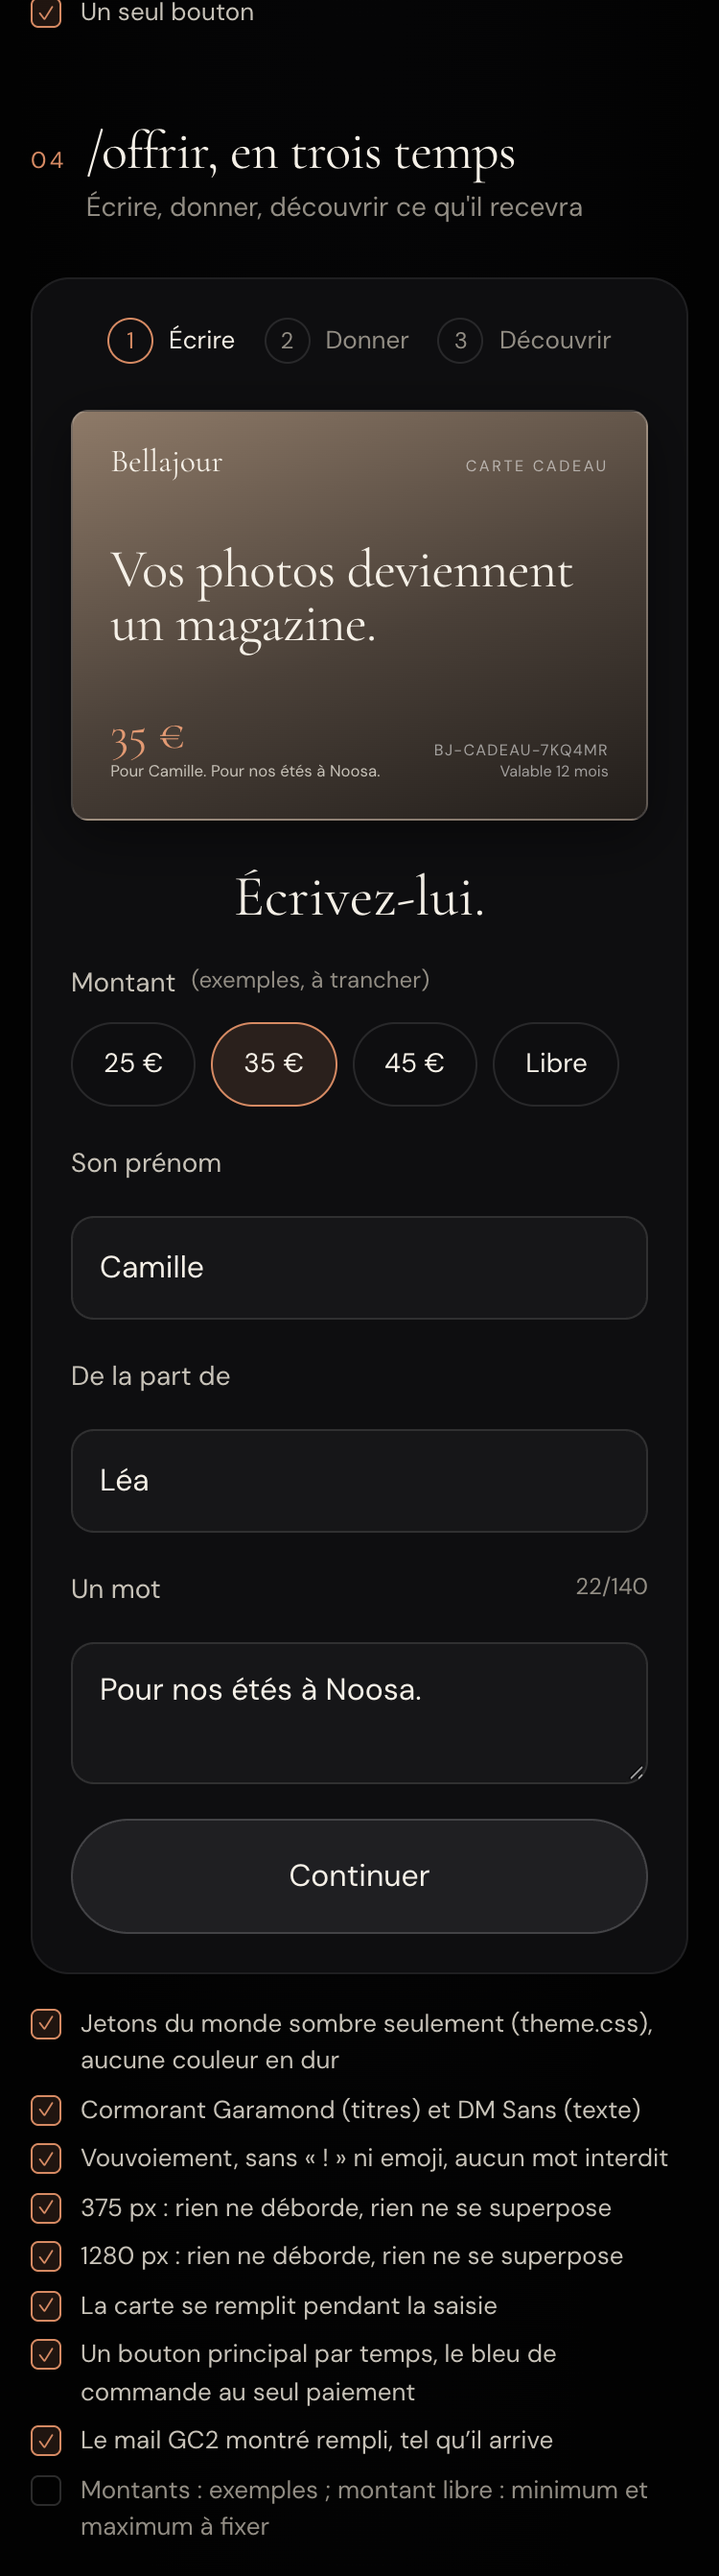
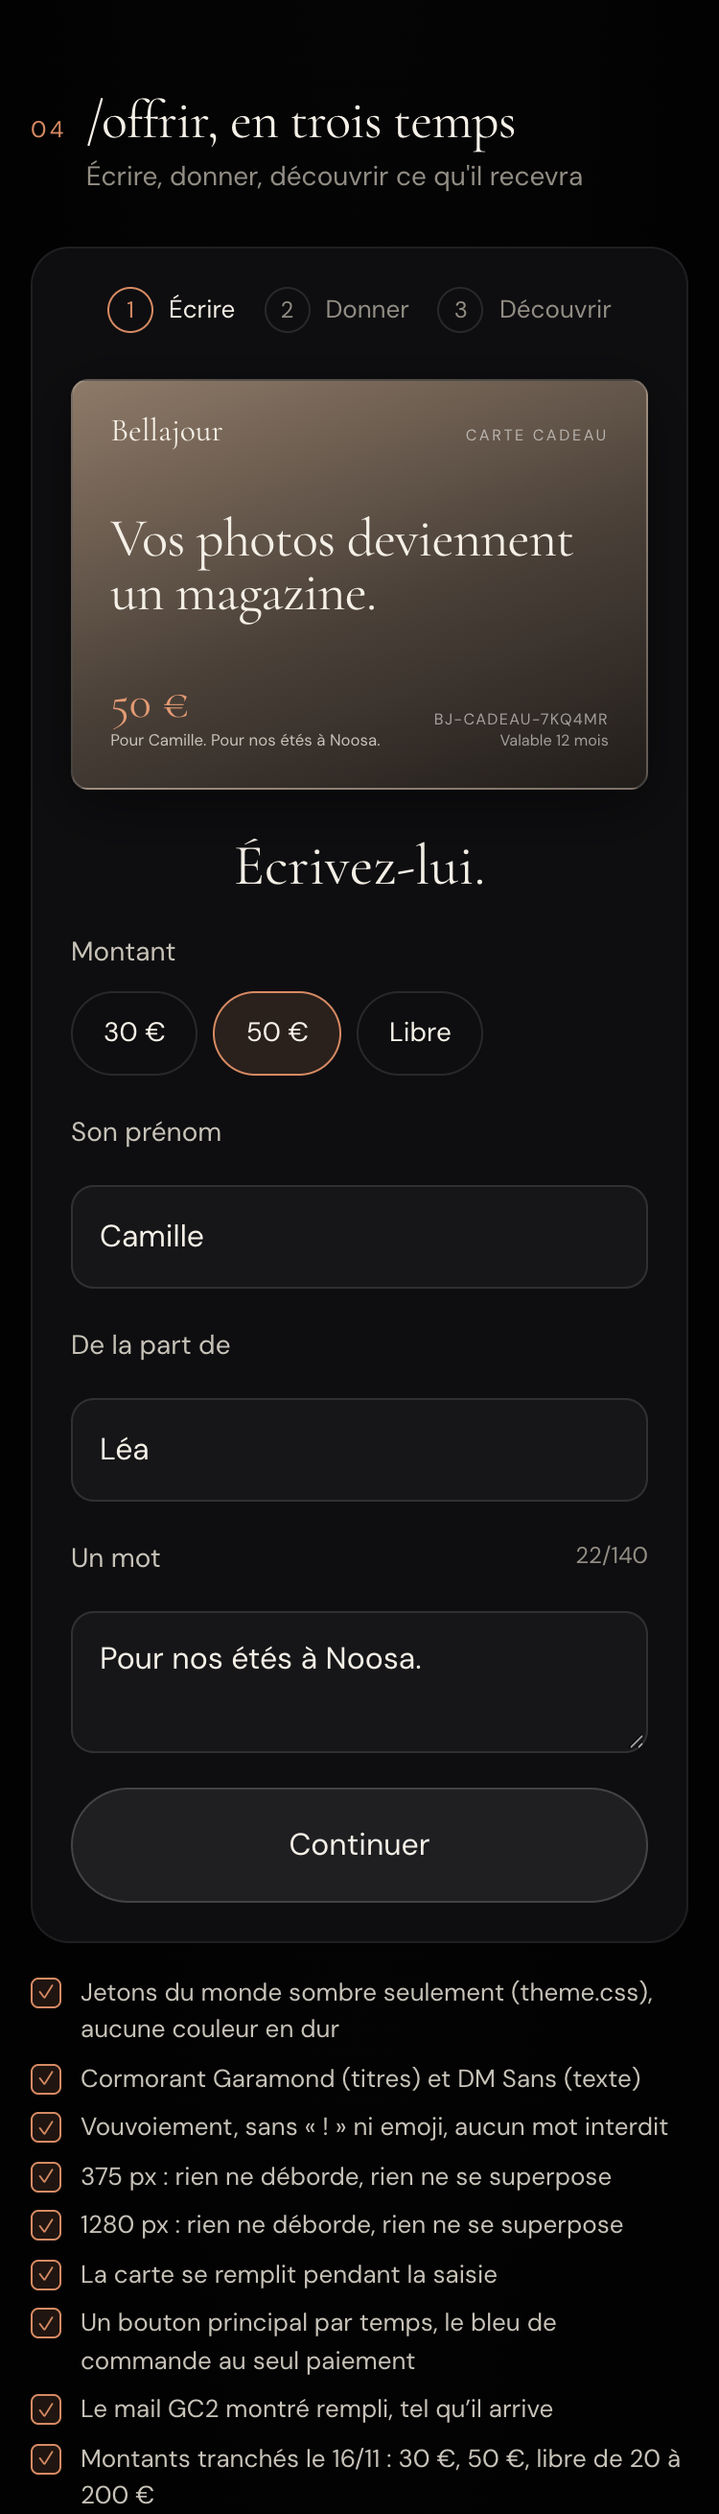
docs(noel): décisions du 16/11 et liste complète des mails
Montants 30/50 € + libre 20-200 € dans l'aperçu ; trois mails proposés
(GC1b carte programmée, GC2b carte remise, GC5 carte remboursée) visibles
aux deux tons avant toute programmation Brevo ; GC1 et GC3 suivent le
reliquat sur le compte.

diff --git a/src/app/(atelier)/noel-preview/contenu.ts b/src/app/(atelier)/noel-preview/contenu.ts
@@ -29,7 +29,10 @@ export const COUVERTURES_ACCUEIL = [
   { src: '/images/v2/accueil/couverture-cote-azur-360.webp', alt: 'Couverture « Côte d\u2019Azur »' },
 ] as const
 
-export const MONTANTS_EXEMPLE = [25, 35, 45] as const
+/* Décision de Mathias, 16/11 : 30 € et 50 €, plus un montant libre de 20 à 200 €. */
+export const MONTANTS_EXEMPLE = [30, 50] as const
+export const LIBRE_MIN = 20
+export const LIBRE_MAX = 200
 export const PLACES_EXEMPLE = 25
 export const MESSAGE_MAX = 140
 
@@ -70,7 +73,7 @@ export type Mail = {
   propose?: Ton[]
 }
 
-export const MAILS: Mail[] = [
+const MAILS_BRUTS: Mail[] = [
   {
     code: 'N1',
     nom: 'Fondateurs n°1',
@@ -116,7 +119,7 @@ export const MAILS: Mail[] = [
     corps: {
       sobre: [
         '{{ params.PRENOM }}, votre carte de {{ params.MONTANT }} € est prête.',
-        'Code : {{ params.CODE }}. Valable douze mois, utilisable en une fois ; si la commande coûte moins, le reste est crédité sur le compte.',
+        'Code : {{ params.CODE }}. Valable douze mois, utilisable en une fois ; si la commande coûte moins, le reste va sur le compte de la personne qui l’utilise.',
         '[Voir et imprimer la carte]',
         'Pour une livraison avant Noël, les photos doivent arriver avant le 7 décembre.',
       ],
@@ -149,15 +152,70 @@ export const MAILS: Mail[] = [
     },
   },
   {
+    code: 'GC1b',
+    nom: 'Carte programmée, acheteur',
+    objet: 'Votre carte partira le {{ params.DATE_ENVOI }}',
+    preheader: 'Rien à faire d’ici là.',
+    corps: {
+      sobre: [
+        '{{ params.PRENOM }}, votre carte de {{ params.MONTANT }} € pour {{ params.PRENOM_DEST }} est prête.',
+        'Elle partira par e-mail le {{ params.DATE_ENVOI }} au matin. Nous vous écrirons quand elle sera arrivée.',
+        'Code : {{ params.CODE }}, valable douze mois à partir de ce jour.',
+        '[Voir et imprimer la carte]',
+      ],
+      decontracte: [
+        '{{ params.PRENOM }}, la carte de {{ params.PRENOM_DEST }} attend son jour : le {{ params.DATE_ENVOI }}, au matin.',
+        'Nous vous préviendrons quand elle sera partie.',
+        '[Voir et imprimer la carte]',
+      ],
+    },
+    propose: ['sobre', 'decontracte'],
+  },
+  {
+    code: 'GC2b',
+    nom: 'Carte remise, acheteur',
+    objet: '{{ params.PRENOM_DEST }} a reçu votre carte',
+    preheader: 'Elle est partie ce matin.',
+    corps: {
+      sobre: [
+        '{{ params.PRENOM }}, votre carte est partie ce matin chez {{ params.PRENOM_DEST }}.',
+        'S’il ne la trouve pas, il peut regarder dans ses courriers indésirables. Vous pouvez aussi lui transmettre la carte vous-même.',
+        '[Voir et imprimer la carte]',
+      ],
+      decontracte: [
+        '{{ params.PRENOM }}, c’est parti : {{ params.PRENOM_DEST }} a sa carte depuis ce matin.',
+        '[Voir et imprimer la carte]',
+      ],
+    },
+    propose: ['sobre', 'decontracte'],
+  },
+  {
+    code: 'GC5',
+    nom: 'Carte annulée et remboursée',
+    objet: 'Votre carte cadeau est remboursée',
+    preheader: 'Le code ne fonctionne plus.',
+    corps: {
+      sobre: [
+        '{{ params.PRENOM }}, nous avons remboursé votre carte de {{ params.MONTANT }} €.',
+        'Le code {{ params.CODE }} ne fonctionne plus. Le remboursement apparaît sur votre relevé sous quelques jours ouvrés.',
+      ],
+      decontracte: [
+        '{{ params.PRENOM }}, la carte de {{ params.MONTANT }} € est remboursée et son code désactivé.',
+        'Le montant revient sur votre carte bancaire sous quelques jours ouvrés.',
+      ],
+    },
+    propose: ['sobre', 'decontracte'],
+  },
+  {
     code: 'GC3',
     nom: 'Carte utilisée',
     objet: 'Votre carte a servi',
     preheader: 'Le reste est sur votre compte.',
     corps: {
-      sobre: ['Votre carte a servi. Il reste {{ params.RELIQUAT }} € sur votre compte.', '[Voir mon compte]'],
+      sobre: ['{{ params.PRENOM }}, votre carte a servi pour votre magazine.', 'Il reste {{ params.RELIQUAT }} €, gardés sur votre compte Bellajour jusqu’au {{ params.DATE }}. Connectez-vous avec cette adresse e-mail pour les retrouver.', '[Voir mon compte]'],
       decontracte: ['Carte utilisée.', '{{ params.RELIQUAT }} € vous attendent sur votre compte.', '[Voir mon compte]'],
     },
-    propose: ['decontracte'],
+    propose: ['sobre', 'decontracte'],
   },
   {
     code: 'GC4',
@@ -193,3 +251,7 @@ export const MAILS: Mail[] = [
     propose: ['decontracte'],
   },
 ]
+
+/* L'ordre de la liste complète (MAILS.md, 16/11) : celui où ils partent. */
+const ORDRE = ['N1', 'N2', 'GC1', 'GC1b', 'GC2', 'GC2b', 'GC3', 'GC4', 'GC5', 'M4', 'M5']
+export const MAILS: Mail[] = [...MAILS_BRUTS].sort((a, b) => ORDRE.indexOf(a.code) - ORDRE.indexOf(b.code))

diff --git a/src/app/(atelier)/noel-preview/Offrir.tsx b/src/app/(atelier)/noel-preview/Offrir.tsx
@@ -12,7 +12,7 @@
 import { useState } from 'react'
 import CarteCadeau from './CarteCadeau'
 import { MailRendu } from './ApercuMails'
-import { COUVERTURES_ACCUEIL, MAILS, MESSAGE_MAX, MONTANTS_EXEMPLE, TEXTES, type Ton } from './contenu'
+import { COUVERTURES_ACCUEIL, LIBRE_MAX, LIBRE_MIN, MAILS, MESSAGE_MAX, MONTANTS_EXEMPLE, TEXTES, type Ton } from './contenu'
 
 type Montant = (typeof MONTANTS_EXEMPLE)[number] | 'libre'
 type Temps = 1 | 2 | 3 | 'fini'
@@ -22,7 +22,7 @@ const NOMS = ['Écrire', 'Donner', 'Découvrir'] as const
 export default function Offrir({ ton, phrase }: { ton: Ton; phrase: string }) {
   const t = TEXTES[ton]
   const [temps, setTemps] = useState<Temps>(1)
-  const [montant, setMontant] = useState<Montant>(35)
+  const [montant, setMontant] = useState<Montant>(50)
   const [libre, setLibre] = useState('')
   const [prenom, setPrenom] = useState('Camille')
   /* GC2 dit « X vous offre un magazine » : il faut le prénom de qui offre. */
@@ -56,7 +56,7 @@ export default function Offrir({ ton, phrase }: { ton: Ton; phrase: string }) {
         <div className="nl-recit-temps">
           <h3 className="nl-recit-titre">Écrivez-lui.</h3>
           <fieldset className="nl-champ">
-            <legend>Montant <span className="nl-faible">(exemples, à trancher)</span></legend>
+            <legend>Montant</legend>
             <div className="nl-puces">
               {MONTANTS_EXEMPLE.map((m) => (
                 <button key={m} type="button" className="nl-puce" aria-pressed={montant === m} onClick={() => setMontant(m)}>
@@ -71,7 +71,7 @@ export default function Offrir({ ton, phrase }: { ton: Ton; phrase: string }) {
               <input
                 className="nl-input"
                 inputMode="numeric"
-                placeholder="Montant en euros"
+                placeholder={`De ${LIBRE_MIN} à ${LIBRE_MAX} €`}
                 aria-label="Montant libre en euros"
                 value={libre}
                 onChange={(e) => setLibre(e.target.value.replace(/\D/g, '').slice(0, 4))}

diff --git a/src/app/(atelier)/noel-preview/Apercu.tsx b/src/app/(atelier)/noel-preview/Apercu.tsx
@@ -139,7 +139,7 @@ export default function Apercu() {
       >
         <div className="nl-bloc-mag">
           <div className="nl-bloc-mag-carte">
-            <CarteCadeau phrase={phrase} montant="35 €" prenom="" message="" />
+            <CarteCadeau phrase={phrase} montant="50 €" prenom="" message="" />
           </div>
           <div className="nl-section-texte">
             <span className="nl-surtitre">Pour Noël</span>
@@ -159,7 +159,7 @@ export default function Apercu() {
           { texte: 'La carte se remplit pendant la saisie', ok: true },
           { texte: 'Un bouton principal par temps, le bleu de commande au seul paiement', ok: true },
           { texte: 'Le mail GC2 montré rempli, tel qu’il arrive', ok: true },
-          { texte: 'Montants : exemples ; montant libre : minimum et maximum à fixer', ok: false },
+          { texte: 'Montants tranchés le 16/11 : 30 €, 50 €, libre de 20 à 200 €', ok: true },
         ]}
       >
         <Offrir ton={ton} phrase={phrase} />
@@ -179,7 +179,7 @@ export default function Apercu() {
         <div className="nl-cartes">
           {PHRASES.map((p) => (
             <figure key={p} className="nl-carte-cadre">
-              <CarteCadeau phrase={p} montant="35 €" prenom="Camille" message="Pour nos étés à Noosa." />
+              <CarteCadeau phrase={p} montant="50 €" prenom="Camille" message="Pour nos étés à Noosa." />
               <figcaption>{p === PHRASES[0] ? 'Retenue' : p === PHRASES[PHRASES.length - 1] ? 'L’ancienne, écartée' : 'Écartée'}</figcaption>
             </figure>
           ))}

diff --git a/src/app/(atelier)/noel-preview/Chapitre.tsx b/src/app/(atelier)/noel-preview/Chapitre.tsx
@@ -72,7 +72,7 @@ export default function Chapitre({ ton, phrase }: { ton: Ton; phrase: string }) 
             <span className="nl-env-rabat" />
           </div>
           <div className="nl-scene-carte">
-            <CarteCadeau phrase={phrase} montant="35 €" prenom="Camille" message="" entree={false} />
+            <CarteCadeau phrase={phrase} montant="50 €" prenom="Camille" message="" entree={false} />
           </div>
           <span className="nl-env-poche" aria-hidden="true" />
           <div className="nl-scene-couvs">

diff --git a/docs/noel-2026/MAILS.md b/docs/noel-2026/MAILS.md
@@ -13,6 +13,27 @@ Signature DÉCIDÉE (13/11) : « L'atelier Bellajour » dans tous les mails Noë
 | GC4 | Avis d'expiration de la carte | J-30 avant 12 mois (janv. 2027 pour les premières) | porteuse | nouveau, à valider |
 | M4 | Confirmation de commande (mention 2 exemplaires, carte appliquée) | paiement | cliente | existant, à adapter |
 | M5 | Validation d'épreuve + bloc « 2ᵉ exemplaire » (FR) | ~J+5 | cliente FR | existant, bloc ajouté |
+
+## Liste complète au 16/11 (décisions de DECISIONS-16-11.md)
+Aperçu de chacun, aux deux tons, sur `/noel-preview` partie 08 AVANT toute programmation Brevo. « Proposé » = texte écrit le 16/11, à relire.
+
+| # | Code | Mail | Part quand | À qui | Statut |
+|---|---|---|---|---|---|
+| 1 | N1 | Fondateurs n°1 : la carte et le 2ᵉ exemplaire | à la main, sur ton accord | 14 fondateurs | texte de MAILS.md |
+| 2 | N2 | Fondateurs n°2 : dernier jour lundi 7/12 | à la main, ven. 4/12 | 14 fondateurs | texte de MAILS.md |
+| 3 | GC1 | Votre carte cadeau (reçu et code) | paiement de la carte, envoi immédiat ou impression | acheteur | texte de MAILS.md, reliquat corrigé (compte) |
+| 4 | GC1b | Votre carte partira le JJ/MM | paiement d'une carte programmée | acheteur | proposé |
+| 5 | GC2 | X vous offre un magazine | paiement, ou le matin du jour choisi | destinataire | texte de MAILS.md |
+| 6 | GC2b | Y a reçu votre carte | départ d'une carte programmée | acheteur | proposé |
+| 7 | GC3 | Votre carte a servi, il reste N € sur votre compte | commande payée avec la carte, s'il reste un solde | porteur | proposé (compte lié à l'adresse e-mail) |
+| 8 | GC4 | Votre carte expire le JJ/MM | 30 jours avant les 12 mois, s'il reste un solde | porteur | proposé, texte légal à valider |
+| 9 | GC5 | Votre carte est remboursée | remboursement Stripe de la carte | acheteur | proposé |
+| 10 | M4 + bloc | Paiement reçu : exemplaires et carte appliquée | paiement du magazine (aussi à 0 € réglé par la carte) | client | M4 existant, bloc proposé |
+| 11 | M5 + bloc | Maquette complète : « un 2ᵉ exemplaire » (France, pendant Noël) | publication de la maquette | client FR | M5 existant, bloc proposé |
+
+Hors liste, déjà automatiques : le reçu Stripe de l'acheteur (si activé chez Stripe) et la fatura InvoiceXpress du magazine, que Louis finalise. Aucune fatura à l'achat de la carte (bon à usages multiples).
+Un envoi programmé part avec la relève du matin (Vercel, 7 h UTC, « dans l'heure ») : « au matin », jamais à une heure précise.
+
 Pas de mail à la waitlist non-acheteurs (opt-in non prouvé). Un mail max par 24 h par personne.
 
 ## Textes (80-200 mots, variables Brevo `{{ params.X }}` avec repli)

diff --git a/docs/noel-2026/DECISIONS-16-11.md b/docs/noel-2026/DECISIONS-16-11.md
@@ -1,0 +1,17 @@
+# Décisions de Mathias pour le développement de Noël (16/11/2026)
+
+Prises dans la conversation du 16/11. Elles remplacent les hypothèses de TARIFICATION.md et de STRATEGIE.md.
+
+| Sujet | Décision |
+|---|---|
+| Phrase de la carte | « Vos photos deviennent un magazine. » (14/11) |
+| Montants de la carte | 30 € et 50 €, plus un montant libre de 20 à 200 € |
+| Prix réels du magazine en France (grille.ts) | 24 p = 24 €, 36 p = 41 €, 48 p = 54 €, 60 p = 64 €, port de 5 € sous 50 € (les 25/35/45/55 € de TARIFICATION.md étaient faux) |
+| 2ᵉ exemplaire | Règle de Noël (-40 % même couverture, -20 % autre couverture, 2 au plus, France seulement) **pendant Noël seulement**, puis retour automatique à l'ancienne règle (-30 % le 2ᵉ, -50 % du 3ᵉ au 10ᵉ, partout) |
+| Reliquat d'une carte | **Sur le compte** (`/compte`) : la personne doit avoir un compte pour garder le reste |
+| Facture d'une carte | Un reçu Stripe à l'achat, sans fatura. La fatura (brouillon InvoiceXpress relu par Louis) se fait à la commande du magazine, carte déduite (bon à usages multiples) |
+| Migration en production | Autorisée pour les tables de Noël (cartes, mouvements de crédit), vérifiée en SQL |
+| Compteur de places | Une place = un dossier **payé** depuis l'ouverture ; plafond 25 avant le 7 décembre |
+| Imprimeur de Noël | **SoBook**, par son API (à brancher : documentation et clé à fournir par Mathias) |
+| Bandeau | « Offrir une carte » mène à `/offrir` |
+| Chapitre de l'accueil | Gardé tel quel pour l'instant (« pas festif, mais okay ») |
